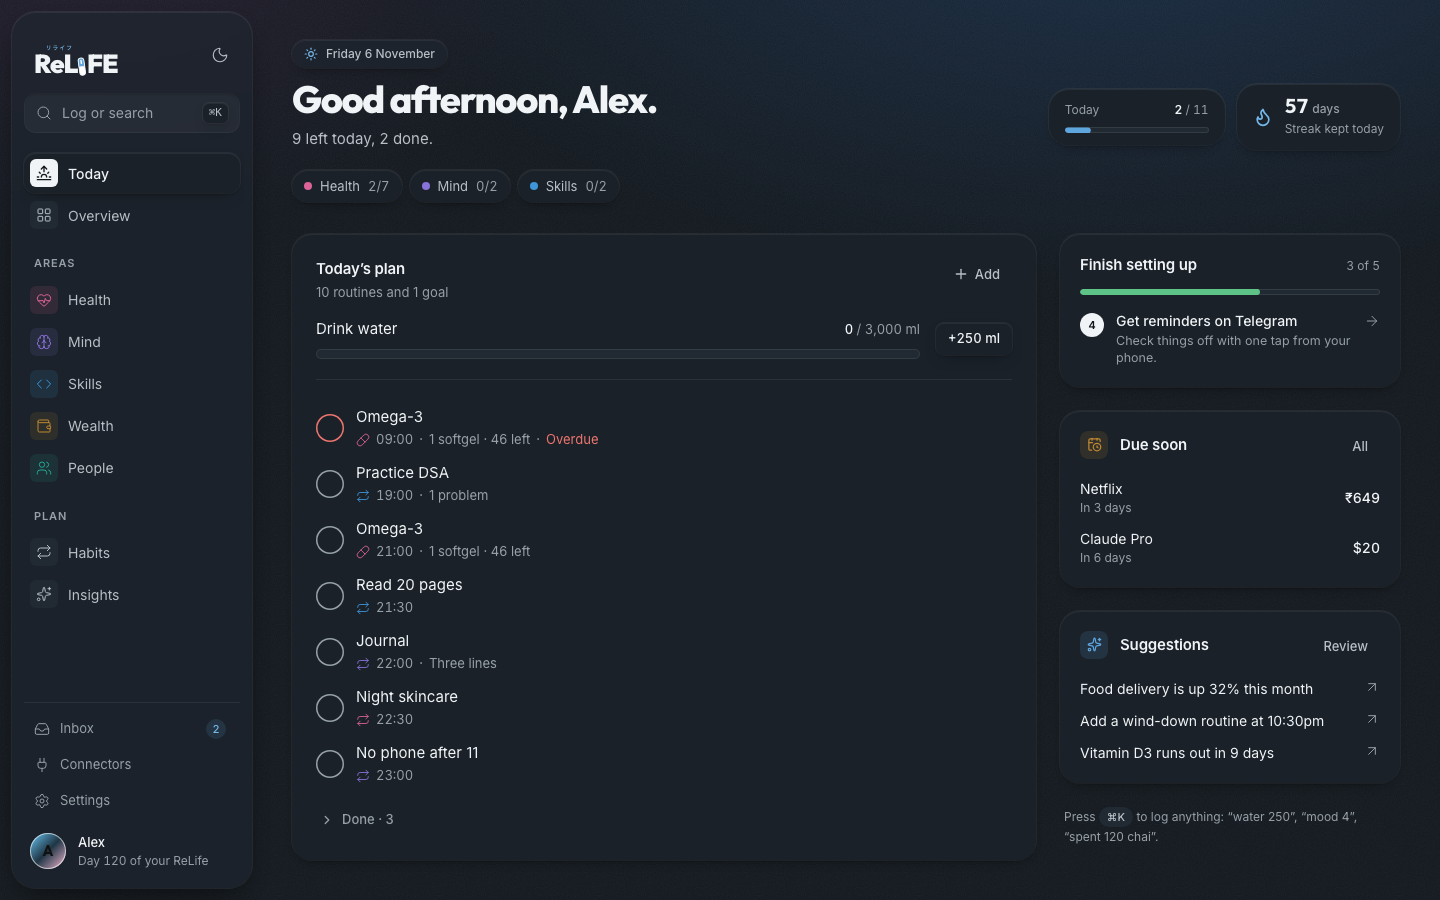
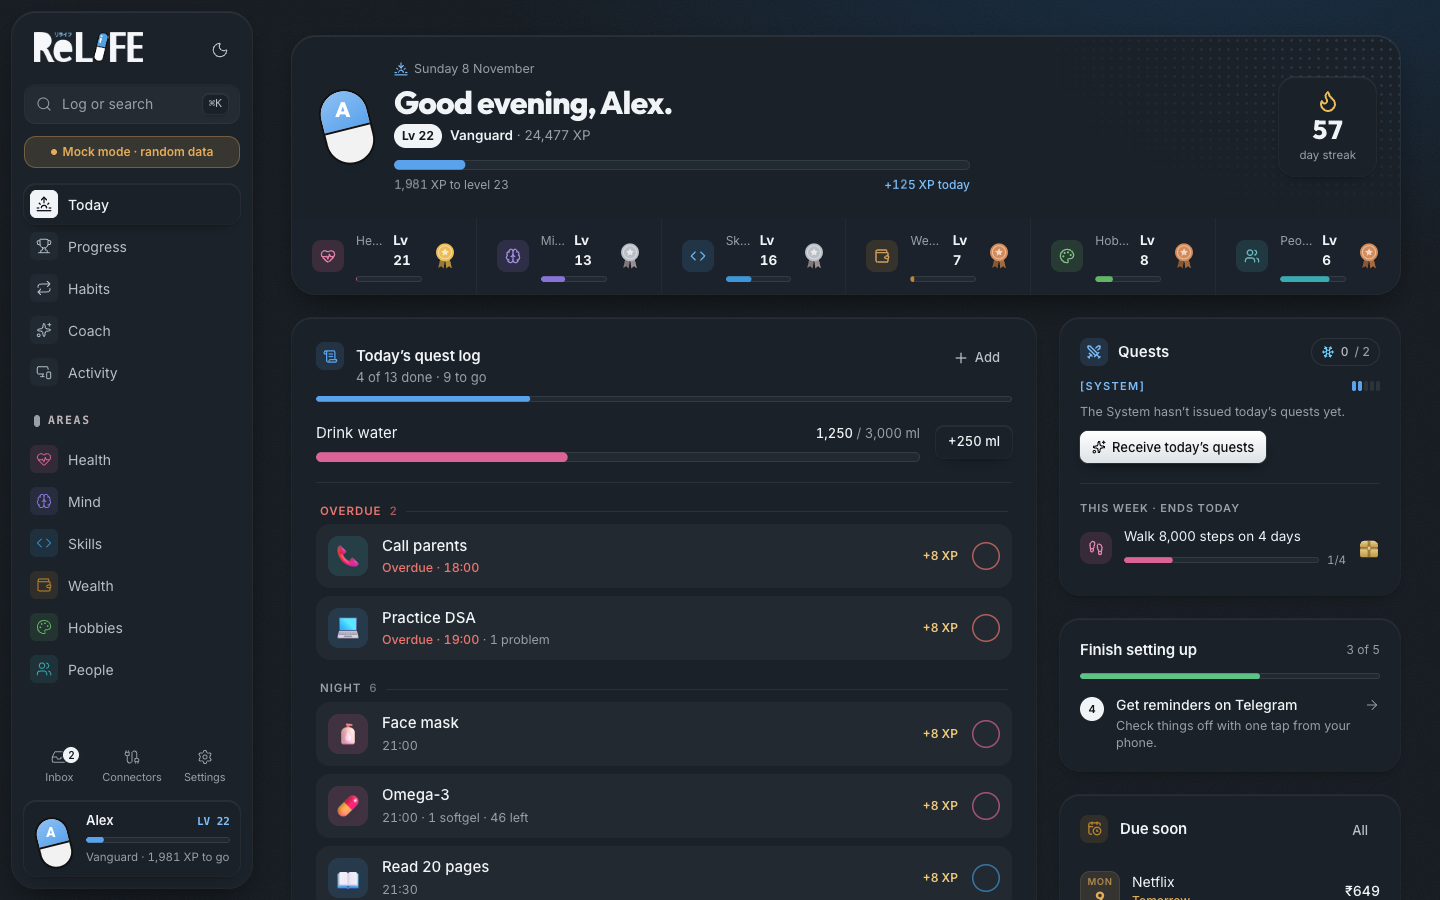
docs: refresh README screenshots
New Today and Wealth overview screenshots in light and dark, taken in mock mode so no real data is shown.

diff --git a/README.md b/README.md
@@ -9,8 +9,15 @@ Local-first: everything runs on your machine, and your data stays in your own Po
 
 <picture>
   <source media="(prefers-color-scheme: dark)" srcset="docs/images/today-dark.png">
-  <img alt="ReLife Today page: today's routines and water goal, the daily streak, payments due and suggestions" src="docs/images/today-light.png">
+  <img alt="ReLife Today page: level and XP, area levels with medals, the day's quest log, The System's quests and payments due soon" src="docs/images/today-light.png">
 </picture>
+
+<picture>
+  <source media="(prefers-color-scheme: dark)" srcset="docs/images/wealth-dark.png">
+  <img alt="ReLife Wealth overview: net worth, this month's spending pace against a usual month, subscriptions, investment profit and 12 months of spending" src="docs/images/wealth-light.png">
+</picture>
+
+Screenshots use mock data (`npm run dev:mock`).
 
 **How it all works:** open [docs/architecture.html](docs/architecture.html) in a browser for the full guide with
 diagrams (processes, data flow, data model, job engine, nudges, AI, security and trade-offs).
